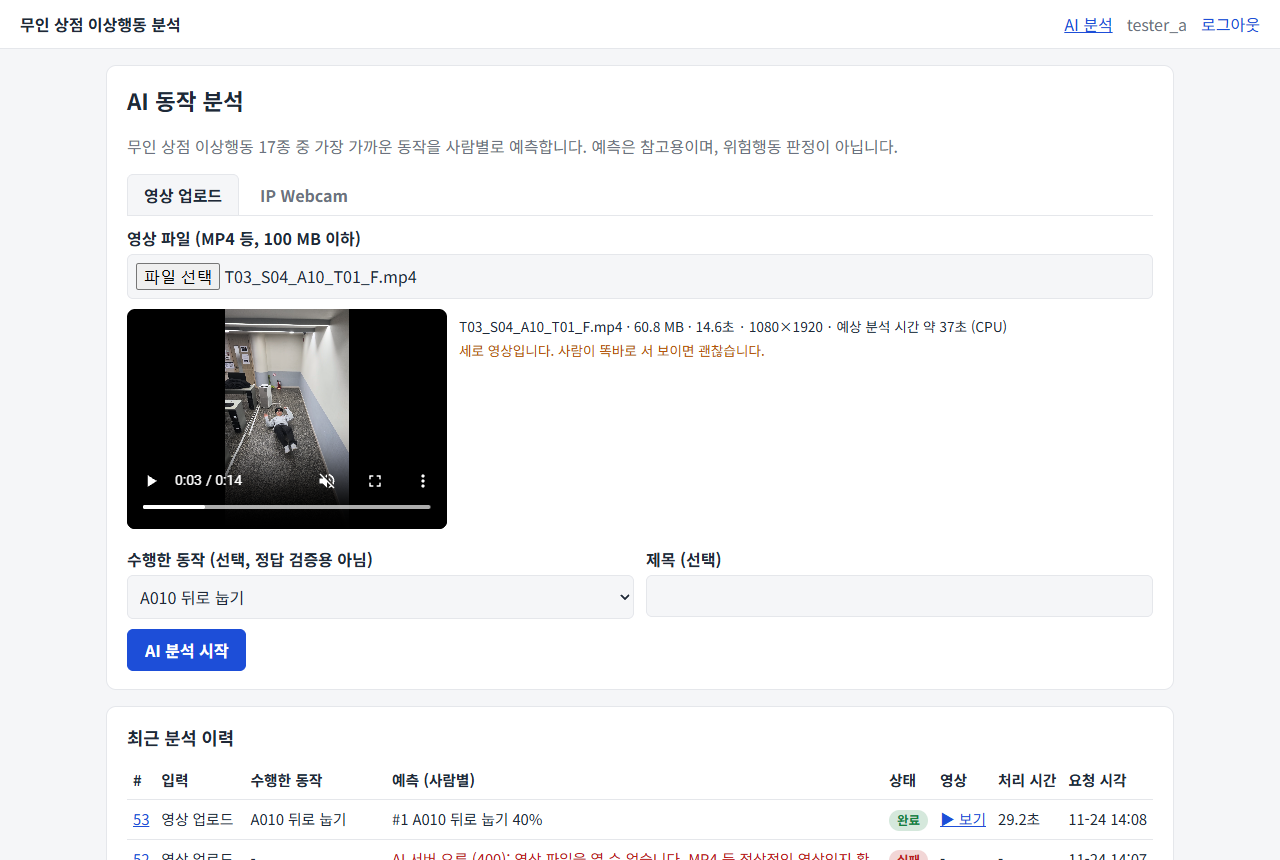
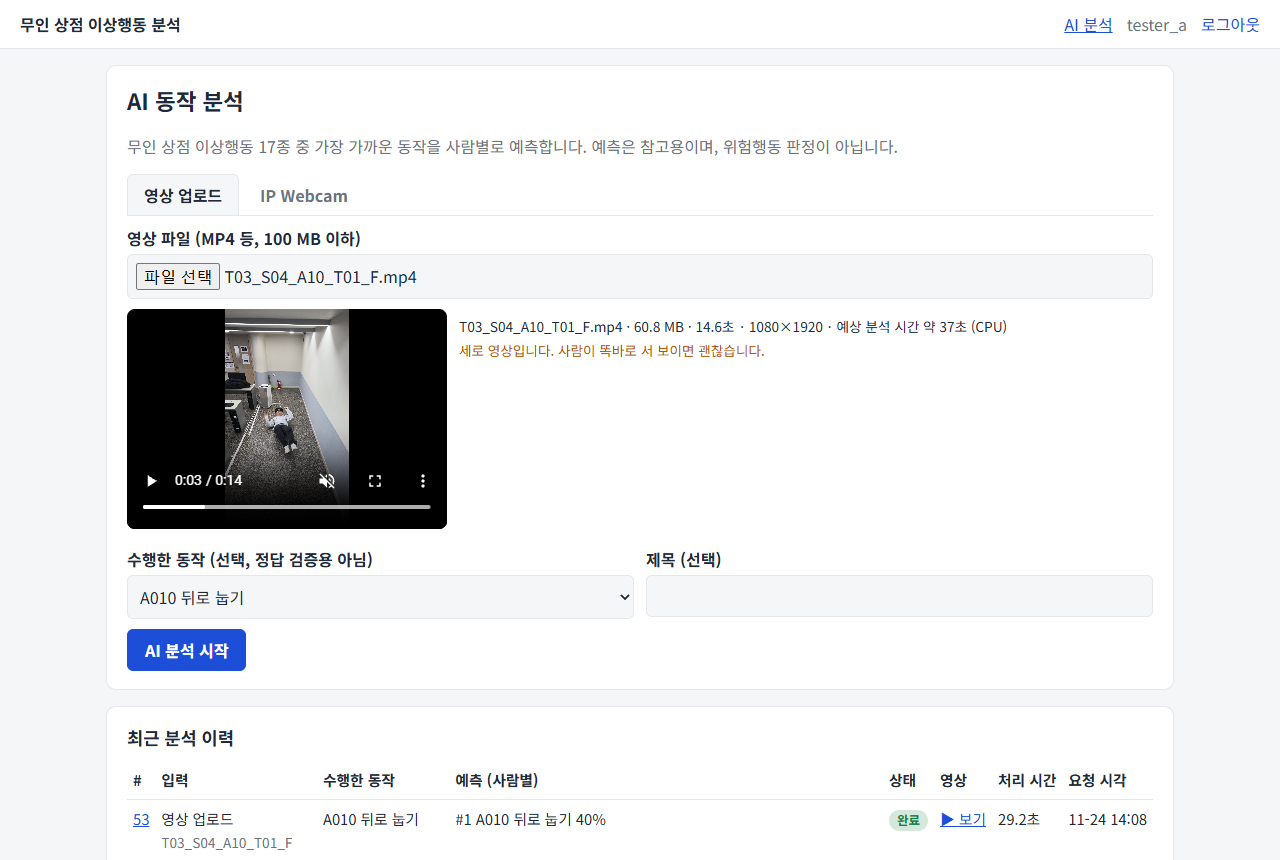
품질 정리: CI · scripts/check.sh · 테스트 격리 · HTTPS 옵션 · 린트 · 기록 목록 제목
- .github/workflows/ci.yml: push · PR 마다 린트 · JS 문법 · Django check · migration 누락 · 단위 테스트 41개 · compose 문법 (README 배지)
- scripts/check.sh: 같은 확인을 로컬에서 한 번에, ruff.toml 로 린트 기준 고정
- 테스트 격리: migration 0002 가 .env 카메라를 테스트 DB 에도 넣어 Docker 안에서 25개 실패 → CleanTestCase 가 빈 카메라 표에서 시작 (안·밖 모두 41개 통과)
- DJANGO_HTTPS=1 이면 쿠키 secure · https 이동 · HSTS (check --deploy 경고 없음), 내부망 http 시연은 기본 0
- 린트로 찾은 것: 반복문 변수 묶기(실시간 보기 대기 조건), zip strict, 쓸모없는 식, 파일 닫는 곳 주석
- 최근 분석 이력에 제목 표시(길면 말줄임), README 오류 표·폴더 구조·캡처 갱신

Changed region(s): [[0.0938, 0.8767, 0.75, 1.0], [0.8438, 0.9977, 0.9062, 1.0]]

diff --git a/backend/static/js/analyses.js b/backend/static/js/analyses.js
@@ -152,7 +152,7 @@
       if (!body) return;
       body.innerHTML = jobs.length ? jobs.map((j) => `<tr>
           <td><a href="/analyses/${j.id}/">${j.id}</a></td>
-          <td class="nowrap">${Util.esc(j.input_type_display)}${j.source_display ? `<br><span class="${j.source === "LIVE_AUTO" ? "badge" : "muted small"}">${Util.esc(j.source_display)}</span>` : ""}</td>
+          <td class="nowrap">${Util.esc(j.input_type_display)}${j.source_display ? `<br><span class="${j.source === "LIVE_AUTO" ? "badge" : "muted small"}">${Util.esc(j.source_display)}</span>` : ""}${j.title ? `<br><span class="muted small cell-title" title="${Util.esc(j.title)}">${Util.esc(j.title)}</span>` : ""}</td>
           <td>${j.expected_action ? Util.esc(j.expected_action_display) : "-"}</td>
           <td>${j.predictions.map(View.predictionLine).join("<br>") || (j.status === "FAILURE" ? `<span class="error">${Util.esc(j.error_message)}</span>` : Util.esc(j.result_message) || "-")}</td>
           <td>${View.badge(j.status)}</td>

diff --git a/backend/static/css/app.css b/backend/static/css/app.css
@@ -139,3 +139,5 @@ a.button-like { display: inline-block; padding: 6px 12px; border: 1px solid var(
   .preview, .detail-grid, .current-grid { grid-template-columns: 1fr; }
   .kpis.kpis-8 { grid-template-columns: repeat(2, 1fr); }
 }
+/* 기록 목록의 제목: 길면 말줄임 (전체는 마우스를 올리면 보임) */
+.cell-title{display:inline-block;max-width:11em;overflow:hidden;text-overflow:ellipsis;vertical-align:bottom;white-space:nowrap}

diff --git a/backend/analyses/tests.py b/backend/analyses/tests.py
@@ -35,8 +35,17 @@ def video_file(name="clip.mp4"):
     return SimpleUploadedFile(name, b"\x00\x00\x00\x18ftypmp42fake", content_type="video/mp4")
 
 
+class CleanTestCase(TestCase):
+    """migration 0002 가 .env 의 IPWEBCAM_CAMERAS 를 테스트 DB 에도 옮겨 넣는다.
+    그대로 두면 Docker 안(.env 있음)과 밖(없음)에서 결과가 달라지므로, 모든 테스트는 빈 카메라 표에서 시작한다."""
+
+    @classmethod
+    def setUpTestData(cls):
+        Camera.objects.all().delete()
+
+
 @override_settings(MEDIA_ROOT=TMP_MEDIA)
-class AnalysisApiTests(TestCase):
+class AnalysisApiTests(CleanTestCase):
     @classmethod
     def tearDownClass(cls):
         super().tearDownClass()
@@ -162,7 +171,7 @@ class AnalysisApiTests(TestCase):
 
 
 @override_settings(MEDIA_ROOT=TMP_MEDIA)
-class DashboardTests(TestCase):
+class DashboardTests(CleanTestCase):
     def setUp(self):
         self.staff = User.objects.create_user("boss", password="pw-boss-123", is_staff=True)
         self.user = User.objects.create_user("normal", password="pw-normal-123")
@@ -194,7 +203,7 @@ class DashboardTests(TestCase):
         self.assertContains(r, "IP Webcam")
 
 
-class CameraTests(TestCase):
+class CameraTests(CleanTestCase):
     """카메라 주소: 관리자만 웹에서 바꾸고, 내부망 숫자 IP 만 받는다 (임의 URL 호출 방지)."""
 
     def setUp(self):
@@ -251,7 +260,7 @@ class CameraTests(TestCase):
         self.assertEqual(r.status_code, 400)
 
 
-class LiveTests(TestCase):
+class LiveTests(CleanTestCase):
     """실시간 보기: Django 는 카메라 이름 → 주소를 바꿔 FastAPI 에 넘기고, 로그인한 사람만 화면을 받는다."""
 
     SID = "0f8e6a52-3b1c-4c55-9a2f-2b8f4f7d1a10"
@@ -298,7 +307,7 @@ class LiveTests(TestCase):
 
 @override_settings(MEDIA_ROOT=TMP_MEDIA, LIVE_AUTO_MIN_CONFIDENCE=0.5, LIVE_AUTO_MIN_SECONDS=3,
                    LIVE_AUTO_COOLDOWN_SECONDS=15)
-class LiveSaveTests(TestCase):
+class LiveSaveTests(CleanTestCase):
     """이 장면 저장·자동 감지: 실시간이 본 최근 8초를 저장 → 같은 Celery·FastAPI 분석으로 기록."""
 
     SID = "0f8e6a52-3b1c-4c55-9a2f-2b8f4f7d1a10"
@@ -393,7 +402,7 @@ def fake_ffmpeg(cmd, **kwargs):
 
 
 @override_settings(MEDIA_ROOT=TMP_MEDIA)
-class VideoPlaybackTests(TestCase):
+class VideoPlaybackTests(CleanTestCase):
     """분석한 영상 다시 보기: 재생용 사본·권한·구간 이동(Range)·삭제."""
 
     def setUp(self):
@@ -501,7 +510,7 @@ class VideoPlaybackTests(TestCase):
 
 
 @override_settings(MEDIA_ROOT=TMP_MEDIA)
-class DashboardToolsTests(TestCase):
+class DashboardToolsTests(CleanTestCase):
     """대시보드 편의 기능: 기간·조건·검색·쪽 나누기·CSV."""
 
     def setUp(self):

diff --git a/ai_service/services/live_session.py b/ai_service/services/live_session.py
@@ -209,7 +209,7 @@ class LiveSession:
                 self.stop(f"최대 {cfg['live_max_seconds'] // 60}분이 지나 멈췄습니다. 다시 시작하세요.")
                 return
             with self._cond:
-                self._cond.wait_for(lambda: self._raw_seq != last_seq or self._stop.is_set(), timeout=1.0)
+                self._cond.wait_for(lambda seq=last_seq: self._raw_seq != seq or self._stop.is_set(), timeout=1.0)
                 if self._stop.is_set() or self._raw is None or self._raw_seq == last_seq:
                     continue
                 last_seq = self._raw_seq
@@ -289,7 +289,7 @@ class LiveSession:
             for a, b in COCO_SKELETON:
                 if conf[a] >= kp_min and conf[b] >= kp_min:
                     cv2.line(img, tuple(map(int, xy[a])), tuple(map(int, xy[b])), color, 2 * s, cv2.LINE_AA)
-            for (x, y), c in zip(xy, conf):
+            for (x, y), c in zip(xy, conf, strict=True):
                 if c >= kp_min:
                     cv2.circle(img, (int(x), int(y)), 3 * s, (255, 255, 255), -1, cv2.LINE_AA)
             x1, y1, x2, y2 = map(int, box)
@@ -319,7 +319,7 @@ class LiveSession:
         last = 0
         while not self._stop.is_set():
             with self._cond:
-                self._cond.wait_for(lambda: self.jpeg_seq != last or self._stop.is_set(), timeout=1.0)
+                self._cond.wait_for(lambda seq=last: self.jpeg_seq != seq or self._stop.is_set(), timeout=1.0)
                 if self.jpeg_seq == last or self.jpeg is None:
                     continue
                 last, jpg = self.jpeg_seq, self.jpeg

diff --git a/backend/analyses/playback.py b/backend/analyses/playback.py
@@ -104,15 +104,15 @@ def ranged_file_response(request, path: Path, filename: str, as_attachment: bool
             resp = HttpResponse(status=416)
             resp["Content-Range"] = f"bytes */{size}"
             return resp
-        f = open(path, "rb")
+        f = open(path, "rb")                                       # noqa: SIM115  _chunks 가 다 보낸 뒤 닫음
         f.seek(start)
         resp = StreamingHttpResponse(_chunks(f, end - start + 1), status=206, content_type=content_type)
         resp["Content-Range"] = f"bytes {start}-{end}/{size}"
         resp["Content-Length"] = str(end - start + 1)
         resp["Content-Disposition"] = content_disposition_header(False, filename)
     else:
-        resp = FileResponse(open(path, "rb"), content_type=content_type, as_attachment=as_attachment,
-                            filename=filename)
+        resp = FileResponse(open(path, "rb"), content_type=content_type,  # noqa: SIM115  FileResponse 가 닫음
+                            as_attachment=as_attachment, filename=filename)
     resp["Accept-Ranges"] = "bytes"
     resp["Cache-Control"] = "private, max-age=600"
     resp["X-Content-Type-Options"] = "nosniff"

diff --git a/backend/config/settings.py b/backend/config/settings.py
@@ -19,6 +19,15 @@ DEBUG = env_bool("DJANGO_DEBUG", False)
 ALLOWED_HOSTS = env_list("DJANGO_ALLOWED_HOSTS", "localhost,127.0.0.1")
 CSRF_TRUSTED_ORIGINS = env_list("DJANGO_CSRF_TRUSTED_ORIGINS", "http://localhost:8000,http://127.0.0.1:8000")
 
+# HTTPS 로 열 때만 켠다 (DJANGO_HTTPS=1). 시연은 내부망 http 라 켜면 로그인 쿠키가 안 보내져 기본은 끔.
+# 켜면 manage.py check --deploy 경고 4개(쿠키 secure·HTTPS 이동·HSTS)가 사라진다. 앞단 프록시가 TLS 를 끝내는 구성 기준.
+HTTPS = env_bool("DJANGO_HTTPS", False)
+SESSION_COOKIE_SECURE = CSRF_COOKIE_SECURE = SECURE_SSL_REDIRECT = HTTPS
+SECURE_HSTS_SECONDS = 3600 if HTTPS else 0                # 처음엔 짧게 (잘못 켜면 브라우저가 오래 기억함)
+SECURE_PROXY_SSL_HEADER = ("HTTP_X_FORWARDED_PROTO", "https") if HTTPS else None
+# HSTS 서브도메인·preload 는 도메인 전체(다른 서비스 포함)에 오래 남아 일부러 켜지 않음
+SILENCED_SYSTEM_CHECKS = ["security.W005", "security.W021"]
+
 INSTALLED_APPS = [
     "django.contrib.admin",
     "django.contrib.auth",

diff --git a/ai_service/services/pose_pipeline.py b/ai_service/services/pose_pipeline.py
@@ -41,7 +41,7 @@ class TrackData:
     valid: list[bool] = field(default_factory=list)
     keypoint_conf: list[float] = field(default_factory=list)
 
-    def add(self, t: float, person: "Person") -> None:
+    def add(self, t: float, person: Person) -> None:
         self.times.append(t)
         self.features.append(person.values)
         self.valid.append(person.valid)
@@ -108,7 +108,7 @@ def track_people(pose_model, frame: np.ndarray, cfg: dict, device, persist: bool
     xys = kps.xy.cpu().numpy()
     confs = kps.conf.cpu().numpy() if kps.conf is not None else np.ones((len(ids), 17), np.float32)
     people = []
-    for tid, xy, conf, box in zip(ids, xys, confs, boxes.xyxy.cpu().numpy()):
+    for tid, xy, conf, box in zip(ids, xys, confs, boxes.xyxy.cpu().numpy(), strict=True):
         values, valid = frame_features(xy, conf, w, h, cfg["keypoint_confidence"])
         people.append(Person(int(tid), xy, conf, box, values, valid))
     return people

diff --git a/backend/analyses/cameras.py b/backend/analyses/cameras.py
@@ -37,7 +37,7 @@ def validate_camera_url(url: str) -> None:
     if p.scheme not in ("http", "https"):
         raise ValidationError("http:// 주소만 쓸 수 있습니다 (예: 192.168.0.10:8080).")
     try:
-        p.port
+        _ = p.port                      # 잘못된 포트면 여기서 ValueError
     except ValueError as exc:
         raise ValidationError("포트 번호가 올바르지 않습니다.") from exc
     try:

diff --git a/backend/analyses/jobs.py b/backend/analyses/jobs.py
@@ -9,7 +9,7 @@ from __future__ import annotations
 
 import logging
 import uuid
-from typing import Callable
+from collections.abc import Callable
 
 from django.db import transaction
 from django.utils import timezone

diff --git a/README.md b/README.md
@@ -1,5 +1,7 @@
 # store-anomaly-service
 
+[![check](https://github.com/wlgptjd333/store-anomaly-service/actions/workflows/ci.yml/badge.svg)](https://github.com/wlgptjd333/store-anomaly-service/actions/workflows/ci.yml)
+
 무인 상점 CCTV 같은 영상에서 **사람마다 어떤 이상행동에 가까운지** 예측해 기록·조회하는 웹 서비스입니다.
 교과10(자세추정·동작인식) 최종 프로젝트이며, 모델은 3팀이 직접 촬영한 데이터로 만든 것을 씁니다.
 
@@ -80,7 +82,11 @@ docker compose exec django python manage.py createsuperuser
 모델 파일 복사(1D-CNN 포함), Feature·모델 코드가 두 저장소에서 같은지 확인, Pose 모델 일치 확인, fastapi 다시 빌드(모델이 이미지 안에 들어감), `/health`·E2E 확인까지 합니다.
 영상 추가부터 전체 순서는 데이터 저장소 [Runbook](https://github.com/wlgptjd333/unmanned-store-anomaly/blob/main/docs/RETRAIN_RUNBOOK.md).
 
-로컬(도커 없이) 테스트: `cd backend && pip install -r requirements.txt && python manage.py test` (SQLite·가짜 AI 서버로 41개).
+로컬(도커 없이) 확인: `bash scripts/check.sh` — 린트(`ruff.toml`) · JS 문법 · Django check · migration 누락 · 단위 테스트 41개(SQLite·가짜 AI 서버).
+GitHub 에서도 push 마다 같은 확인이 돕니다 (`.github/workflows/ci.yml`, 위 check 배지). Docker 안에서는 `docker compose exec django python manage.py test`.
+
+HTTPS 로 열 때(앞단 프록시가 TLS 처리)는 `.env` 에 `DJANGO_HTTPS=1` — 쿠키 secure · http→https 이동 · HSTS 가 켜지고 `manage.py check --deploy` 경고가 없어집니다.
+내부망 http 시연에서는 0 (켜면 http 에서 로그인 쿠키가 안 보내짐).
 
 ## 3. 전체 아키텍처
 
@@ -430,6 +436,7 @@ Django 단위 테스트 41개(`backend/accounts/tests.py`, `backend/analyses/tes
 | 휴대폰 IP Webcam 서버를 켰는데 `카메라 'phone'에 연결하지 못했습니다` | 브라우저로는 휴대폰 주소가 열림 → `.env` 의 `IPWEBCAM_CAMERAS` 가 예시 주소 `192.168.0.10` 그대로 | 주소를 고치는 김에, 주소를 DB 카메라 표로 옮기고 관리자가 웹에서 수정·연결 확인하게 바꿈 (내부망 IP 만) | Celery 컨테이너에서 Frame 수신, 화면 '연결 확인' 640×480 |
 | 결과 화면에서 IP Webcam 녹화본·실시간 장면 저장 영상이 재생되지 않음 (검은 칸) | 파일은 정상, OpenCV 가 `mp4v`(MPEG-4 Part 2)로 저장 → Chrome·Edge `<video>` 미지원. 건너뛰기도 안 됨(Range 미지원) | 원본은 그대로 두고 Celery 가 ffmpeg 로 H.264 사본을 만들고, 권한 확인 + Range 응답 뷰로 보냄 | Edge 에서 재생·구간 이동 확인, 단위 테스트 206/416 |
 | 실시간 보기에서는 잘 맞는데 'AI 분석 시작' 결과는 A009·A010 (눕기) 로 나옴 | 저장된 8초 영상을 Frame 별로 열어 봄 → ① 휴대폰을 세로로 들어 영상이 90° 누워 있음 ② 버튼 뒤 7~8초 대기열에서 기다리다 녹화 시작(앞 작업 2개 + 실시간 보기와 CPU 공유) → 동작이 녹화 전에 끝남 | 카메라 '화면 회전' 설정, 화면에 '지금 녹화 중' 표시, 실시간 화면의 최근 8초를 그대로 저장하는 '이 장면 저장'·자동 감지 추가 | 같은 영상을 똑바로 돌려 다시 분석하니 눕기 예측이 사라지고 고른 동작 A003 이 1위(#43)·3위(#42)로 올라옴, 장면 저장 E2E 통과 |
+| Docker 안에서 단위 테스트 25개가 `camera name` 중복으로 실패 (밖에서는 통과) | 오류 내용 → migration `0002` 가 `.env` 의 `IPWEBCAM_CAMERAS` 를 테스트 DB 에도 옮겨 넣음 | 테스트 공통 부모 `CleanTestCase` 가 빈 카메라 표에서 시작, `scripts/check.sh` 는 환경변수를 비우고 실행 | 도커 안·밖·CI 모두 41개 통과 |
 
 ## 폴더 구조
 
@@ -451,7 +458,8 @@ store-anomaly-service/
 │   ├── src/                데이터 저장소(unmanned-store-anomaly)에서 복사: pose_utils · feature_utils · team_feature_utils · sequence_extras · temporal_cnn
 │   ├── models/             Joblib · Feature 순서 · 학습 정보
 │   └── Dockerfile
-├── scripts/                e2e_check.py (Docker 통합 확인) · capture_screens.py (README 캡처) · update_model.sh (모델 교체)
+├── scripts/                check.sh (린트·테스트 한 번에) · e2e_check.py (Docker 통합 확인) · capture_screens.py (README 캡처) · update_model.sh (모델 교체)
+├── ruff.toml · .github/    린트 기준 · push 마다 check.sh 와 같은 확인 (CI)
 ├── docs/PIPELINE.md        'AI 분석 시작'부터 저장까지 파일·함수 단위 흐름, 공통 코드 정리 기록
 └── docs/images/            README 캡처 (영상은 본인 S04 만, 비밀번호·카메라 주소 없음)
 ```
